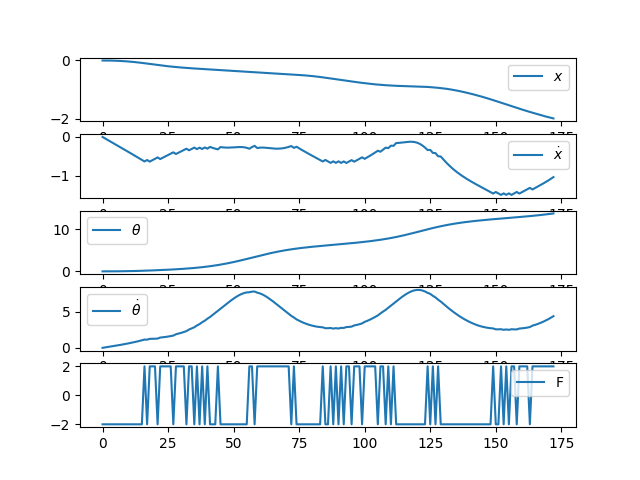
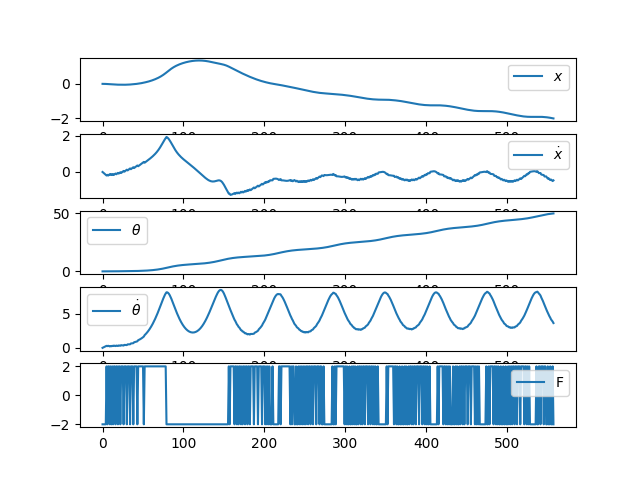
equations spacing updated

diff --git a/envs/cart_pole.py b/envs/cart_pole.py
@@ -22,7 +22,7 @@ class CartPole(Environment):
         self.g               = 9.8
         self.dt              = 0.02 # 50 Hz
         self.terminate       = 'running'
-        self.reach_threshold = 1*(torch.pi//180) # 2 Degree boundary
+        self.reach_threshold = 2*(torch.pi//180) # 2 Degree boundary
         self.x_lim           = 2   # We are limiting the x to be between a thershold to prevent going to infinity
         self.upright_counter = 0   # TO keep track of the agent when it is stable upright
         self.upright_threshold = 50 # Number of steps that we consider the pole to be upright
@@ -51,26 +51,20 @@ class CartPole(Environment):
         state_d[2] = state[3]
         state_d[3] = theta_dd
         next_state = state + self.dt * state_d
-        
-        # To make sure we remain between [0, 360]
-        #if next_state[2] > 2*torch.pi or next_state[2] < -2*torch.pi:
-        #    next_state[2] = next_state[2] % (2*torch.pi)
 
+        reward = 0
         
         # We want to make the pole upright. It is negative, because we want to maximize
-        if next_state[2] < self.reach_threshold and next_state[2] > - self.reach_threshold:
-            reward = 0
+        if abs(next_state[2,0]) <= self.reach_threshold:
+            reward = self.upright_counter
             self.upright_counter += 1
+            print(f'Reward: {self.upright_counter}')
         else:
             self.upright_counter = 0 # To make sure if the pole is out of the upright poisiton, we reset
             reward = -1
 
-        # To encourage the agent to stay at the upright position
-        if self.upright_counter > 0:
-            reward = self.upright_counter
-
         # For the cases that the agent goes to infinity on x
-        if next_state[0] > self.x_lim or next_state[0] < -self.x_lim:
+        if next_state[0,0] > self.x_lim or next_state[0,0] < -self.x_lim:
             self.terminate = 'truncate'
         # To encourage the agent to learn to stay at the upright position
         if self.upright_counter >= self.upright_threshold:
@@ -135,7 +129,6 @@ class CartPole(Environment):
             states_for_plotting.append(state.detach().numpy())
             actions_for_plotting.append(policy.actions[action])
 
-            print(f'Reward: {reward}')
             if terminate == 'terminal' or terminate == 'truncate':
                 break
             

diff --git a/experiments/A2C_n_step.py b/experiments/A2C_n_step.py
@@ -9,7 +9,7 @@ from estimators.mlp import MLP as MLP_V
 n_episodes = 10000
 gamma      = 0.99  # Discount factor
 device     = 'cpu'
-step_size  = 5  # This is the n value for the future n steps of the algorithm
+step_size  = 20  # This is the n value for the future n steps of the algorithm
 c_ent      = 0.01 # This is the entropy coefficient 
 
 # Policy hyper-parameters

diff --git a/notes/reinforce.md b/notes/reinforce.md
@@ -2,16 +2,18 @@
 The main idea in REINFORCE is to use a neural network as the policy and learn policy directly. It does not learn a value function to use it for choosing the actions. Also, REINFORCE is a using the return value instead of using an estimate for finding the target value. The whole idea of the REINFORCE starts from the fact we want to maximize the expected return:
 
 $$
-J(\theta) = \mathbb{E}_{\tau \mathcal p_{\theta}(\tau)} G(\tau)
+J(\theta) = \mathbb{E}_{\tau \sim p_{\theta}(\tau)} G(\tau)
 $$
 
 where:
+$$
 \begin{itemize}
 \item $\theta$ = policy network parameters
 \item $\tau$ = full trajectory
-\item $\p_{\theta}(\tau)$ = probability of generating the trajectory under the policy
+\item $p_{\theta}(\tau)$ = probability of generating the trajectory under the policy
 \item $G(\tau)$ = total return of the trajectory
 \end{itemize}
+$$
 
 $$
 J(\theta) = \int p_{\theta}(\tau) G(\tau) \, \mathrm{d}\tau
@@ -21,8 +23,8 @@ the gradient is
 
 $$
 \begin{aligned}
-\nabla_{\theta}J(\theta) &= \nabla_{\theta} \int p_{\theta}(\tau) G(\tau)  \, \mathrm{d}\tau \\
- &= \int \nabla_{\theta}p_{\theta}(\tau) G(\tau)  \, \mathrm{d}\tau
+\nabla_{\theta}J(\theta) &= \nabla_{\theta} \int p_{\theta}(\tau) G(\tau) \mathrm{d}\tau \\
+ &= \int \nabla_{\theta}p_{\theta}(\tau) G(\tau) \mathrm{d}\tau
 \end{aligned}
 $$
 
@@ -31,27 +33,27 @@ The key is to replace $\nabla_{\theta}p_{\theta}(\tau)=p_{\theta}(\tau)\nabla_{\
 $$
 \begin{aligned}
 \nabla_{\theta}J(\theta) &= \int p_{\theta}(\tau)\nabla_{\theta} log p_{\theta}(\tau) G(\tau)  \, \mathrm{d}\tau \\
-&= \mathbb{E}_{\tau \mathcal p_{\theta}(\tau)} [\nabla_{\theta} log p_{\theta}(\tau) G(\tau)]
+&= \mathbb{E}_{\tau \sim p_{\theta}(\tau)} [\nabla_{\theta} log p_{\theta}(\tau) G(\tau)]
 \end{aligned}
 $$
 
 We expand the trajectory probability as $p_{\theta}(\tau)=p(s_0) \prod_{t=0}^{t=T}\pi(a_t|s_t) p(s_{t+1}|s_t,a_t)$, therefore, $log p_{\theta}(\tau)=log p(s_0) + \sum_{t=0}^{t=T}log \pi_{\theta}(a_t|s_t)+\sum_{t=0}^{t=T}log p(s_{t+1}|s_t,a_t)$. Now, we need to take the derivative w.r.t $\theta$. You can see only policy is dependent on $\theta$, therefore, $\nabla_{\theta}log p_{\theta}(\tau)=\sum_{t=0}^{t=T} \nabla_{\theta}log \pi_{\theta}(a_t|s_t)$. By subsituting this in the gradient of the expected return, we have
 
 $$
-\nabla_{\theta}J(\theta) = \mathbb{E}_{\tau \mathcal p_{\theta}(\tau)}[\sum_{t=0}^{t=T}\nabla_{\theta}log \pi_{\theta}(a_t|s_t)G(\tau)]
+\nabla_{\theta}J(\theta) = \mathbb{E}_{\tau \sim p_{\theta}(\tau)}[\sum_{t=0}^{t=T}\nabla_{\theta}log \pi_{\theta}(a_t|s_t)G(\tau)]
 $$
 
 There is one point here, the expected return is using the whole trajectory return for the trajectory. We can modify this to return to-go from that specific state. The reason is that the current actions does not depend on the previous rewards. We can also do this replacement since the rewards before time $t$ does not depend on the $a_t$. TO ME IT IS STILL NOT CLEAR:
 
 $$
-\nabla_{\theta}J(\theta) = \mathbb{E}_{\tau \mathcal p_{\theta}(\tau)}[\sum_{t=0}^{t=T}\nabla_{\theta}log \pi_{\theta}(a_t|s_t)G_t]
+\nabla_{\theta}J(\theta) = \mathbb{E}_{\tau \sim p_{\theta}(\tau)}[\sum_{t=0}^{t=T}\nabla_{\theta}log \pi_{\theta}(a_t|s_t)G_t]
 $$
 
 # Problem
 The main problem that we want to solve is to maximize the expected return:
 
 $$
-\theta^{*} = \argmax_{\theta} \mathbb{E}_{\tau \mathcal p_{\theta}(\tau)} \sum_{t=0}^{t=T} log \pi_{\theta}(a_t|s_t) G_t
+\theta^{*} = \argmax_{\theta} \mathbb{E}_{\tau \sim p_{\theta}(\tau)} \sum_{t=0}^{t=T} log \pi_{\theta}(a_t|s_t) G_t
 $$
 
 # Observations

diff --git a/notes/sarsa_vs_q_learning.md b/notes/sarsa_vs_q_learning.md
@@ -2,9 +2,7 @@
 Monte Carlo (MC) is estimating the state-value values by rolling out the policy and taking the average of the returns for the state being seen in that episode. MC is runing this iteration for multiple times to get a good estimate of the sate-values. MC is using the following equation for estimating state-value table
 
 $$
-
 v(s) = \frac{1}{N+M} \sum_{k=0}^{N} \sum_{m=0}^{M_s} G_k^{m}(s)
-
 $$
 
 where $N$ is the total number of iterations, $M_s$ is the number of observations of state $s$ in iteration $k$ and $G_k^{m}$ is the reward value for state $s$ in $k^{th}$ episode for the $m^{th}$.
@@ -12,9 +10,7 @@ where $N$ is the total number of iterations, $M_s$ is the number of observations
 The average could be updated in an incremental manner which is the heart of the TD estimation:
 
 $$
-
 V(s_n) = V(s_n) + \alpha [G_n - V(s_n)]
-
 $$
 
 where $G_n$ is the observed return at iteration $n$. As you can see, the state-value can be updated once the return $G_n$ for that state is known. This happens in the end of the iteration, since we then can calculate the $G_n$ moving backwards.
@@ -23,9 +19,7 @@ where $G_n$ is the observed return at iteration $n$. As you can see, the state-v
 Unlike MC that we need to wait till the end of the episode, TD is using an estimate of the state-value function to update the state-value once the agent visits a state:
 
 $$
-
 V(s_n) = V(s_n) + \alpha [R+\gamma V(s_{n+1}) - V(s_n)]
-
 $$
 
 As you can see, here instead of the actual return value, we use an estimate of the return $(R+\gamma V(s_{n+1}))$.
@@ -34,9 +28,7 @@ As you can see, here instead of the actual return value, we use an estimate of t
 The goal of Sarsa is to estimate the action-value using the TD error:
 
 $$
-
 Q(S,A) = Q(S,A) + \alpha [R + \gamma Q(S',A') - Q(S,A)]
-
 $$
 
 The reason we call Sarsa as on-policy because it is using the action-value in an $\epsilon$-greedy manner and then uses the same action-value to update the action-value.
@@ -46,9 +38,7 @@ The reason we call Sarsa as on-policy because it is using the action-value in an
 The goal of Q-learning is learning the optimal action-values:
 
 $$
-
 Q(S,A) = Q(S,A) + \alpha [R + \gamma max_a Q(S',a) - Q(S,A)]
-
 $$
 
 Q-learning is considered as off-policy since it is using $\epsilon$-greedy policy to take action in each state, however, it uses the optimal action-value for updating the action-value.

diff --git a/notes/dqn_vs_ddqn.md b/notes/dqn_vs_ddqn.md
@@ -4,9 +4,7 @@ Instead of keeping track of visited states and corresponding action-values, we u
 The whole idea of Q learning is to learn the action-value function through experineces. So each time, we visit a state, we can update the corresponding action-value in an incremental manner like this:
 
 $$
-
 Q(S,A) = Q(S,A) + \alpha [R + \gamma max_a Q(S',a) - Q(S,A)]
-
 $$
 
 This equation tells us $R + \gamma max_a Q(S',a)$ is the target we want to reach. Therefore, we calculate the error between current estimate $Q(S,A)$ and the target, then with a step size of $\alpha$, we update the action-value function for that state.
@@ -14,18 +12,14 @@ This equation tells us $R + \gamma max_a Q(S',a)$ is the target we want to reach
 DQN uses the same idea. It uses a network called online network $Q_{online}$ to rollout in the environment and collect new experiences. The set of collected experiences is then used to train a network called target $Q_{target}$. This network is the one being used as the network for calculating the target values during training. $Q_{target}$ is to reduce the effect of moving target. If we use the same online network, we keep chasing the target that is being updated by updating the online network. It is like chasing your own tail.
 
 $$
-
 R + \gamma max_{a'} Q_{target}(S',a')
-
 $$
 
 # Double DQN
 The max operator for calculating the target values results in an overestimated bias. This means if the target network estimates a high value for a specific action due to noise, DQN selects that action. Double DQN tries to solve this by separating the max operator into two steps: 1) Selecting the index of the maximum 2) Estimating the value. For finding the action, it uses the online network to find the maximum action (it makes sense since the online network is updated on more seen samples). However, for the values it use the target network (therefore, if the max value is high, it won't get amped):
 
 $$
-
 R + \gamma Q_{target}(S', \argmax_{a'}Q_{online}(S',a'))
-
 $$
 
 # Observations

diff --git a/notes/A2C_n_step.md b/notes/A2C_n_step.md
@@ -4,25 +4,19 @@ A2C is using the actor-critic framework in which the actor is trained on the one
 In the one step A2C the estimation for the return value is
 
 $$
-
 r_t + \gamma V(s_{t+1})
-
 $$
 
 In n-step A2C, instead of considering only one step ahead, we look more than one steps ahead and use the actual rewards to calculate the return and from the $n^{th}$ step on we use the state value estimation:
 
 $$
-
 r_t + \gamma r_{t+1} + \gamma^2 r_{t+2} + \cdots + \gamma^{n-1}r_{t+n-1}+\gamma^n V(s_{t+n})
-
 $$
 
 We can rewrite this as
 
 $$
-
 G_t^n = \sum_{k=0}^{n-1} \gamma^k r_{t+k}+\gamma^n V(s_{t+n})
-
 $$
 
 The rest of the algorithm is same as A2C. There is another term that is added to the actor loss to encourage the exploration. We had the exploration issue from REINFORCE that, the policy can easily become biased towards the early samples it sees. The only mechanism then was the stochasticity of the policy. Earlier algorithms like DQN, they use $\epsilon$-greedy policy to explore. In n-step A2C, an entropy regulizer is added to the actor loss to make sure we increase the entropy, therefore, the policy has the chance to explore more.

diff --git a/notes/value_iteration.md b/notes/value_iteration.md
@@ -13,17 +13,13 @@ The main issue with policy iteration is that it is not computationally effecient
 Value iteration combines the two state sweeps into one. Let's look again into the Bellman equation:
 
 $$
-
 v_{\pi}(s) = \sum_{a}\pi(a|s) \sum_{s',r} p(s',r|s,a)[r+\gamma V(s')],~for~all~s\in \mathbb{S}
-
 $$
 
 The optimal state-value function is defined as 
 
 $$
-
 v_{*}(s) = \max_{\pi}v_{\pi}(s)
-
 $$
 
 The Bellman optimality equation expresses the fact that the value of a state under an optimal policy must equal the expected return for the best action from that state following the optimal policy. Therefore,
@@ -39,9 +35,7 @@ $$
 Based on the definition, the value iteration algorithm treat this equation as an update rule that converges to the optimal state-value function. To be precise, the previous equation uses the optimal state-value function in the inner sum. However, value iteration considers the current state-value function as optimal and updates the state-value function:
 
 $$
-
 v_{k+1}(s) = \max_{a} \sum_{s',r} p(s',r|s,a)[r+\gamma v_k(s')]
-
 $$
 
 for all $s\inS$ and an arbitrary $v_0$.

diff --git a/notes/A2C_one_step.md b/notes/A2C_one_step.md
@@ -2,9 +2,7 @@
 This algorithm bootstraps to get a estimation for the return. Therefore, it won't wait till the end of the episode to update. It uses the current estimate and updates at each step. This method expands on the idea of the REINFORCE with baseline. Instead of waiting till the end of episode to be able to calculate the return and do the update, it bootstraps using the state value function to calculate the TD error. TD error is defined as
 
 $$
-
 \delta_t = r_{t} + \gamma V_{\phi}(s_{t+1}) - V_{Phi}(s_t)
-
 $$
 
 This is very similar to advantage in REINFORCE that tells us how much our current return is better or worse than the expected return from that state.
@@ -14,17 +12,13 @@ Actor-critic has two familiar components. The actor is the policy and the critic
 The update for the actor is similar to the policy update for the REINFORCE:
 
 $$
-
 \theta \leftarrow \theta + \alpha_{\theta} \delta_t \nabla_{\theta} log \pi_{\theta}(a_t|s_t)
-
 $$
 
 The update for the critic is
 
 $$
-
 \Phi \leftarrow \Phi + \alpha_{\Phi} \delta_t \nabla_{\Phi} V_{\Phi}(s_t)
-
 $$
 
 # Observation

diff --git a/notes/reinforce_w_baseline.md b/notes/reinforce_w_baseline.md
@@ -2,9 +2,7 @@
 This algorithm is similar to the vanila REINFORCE, however, instead of a return it uses advantage which is return minus the value function. The value function gives us a sense of expected return for that state, therefore, we can move in that direction. Since the value function is not dependant on the $\theta$ (the policy weights), it won't change the gradient of the loss, therefore, the new loss will look like this
 
 $$
-
 J(\theta) = - \sum_{t=0}^{T} \pi_{\theta}(a_t|s_t) (G_t - V_{\phi}(s_t))
-
 $$
 
 where $V_{\phi}$ is a separate neural network with $\phi$ as weights. We train the value function on a set of samples collected during an episode to train the model.
